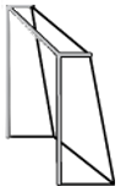
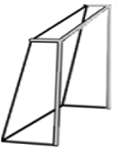
Goal & Movement Changes

diff --git a/core/src/com/feup/superslimefootball/view/GameView.java b/core/src/com/feup/superslimefootball/view/GameView.java
@@ -12,6 +12,7 @@ import com.feup.superslimefootball.SuperSlimeFootball;
 import com.feup.superslimefootball.controller.GameController;
 import com.feup.superslimefootball.model.GameModel;
 import com.feup.superslimefootball.model.entities.BallModel;
+import com.feup.superslimefootball.model.entities.GoalModel;
 import com.feup.superslimefootball.model.entities.SlimeModel;
 import com.feup.superslimefootball.view.entities.EntityView;
 import com.feup.superslimefootball.view.entities.ViewFactory;
@@ -95,6 +96,7 @@ public class GameView extends ScreenAdapter {
         this.game.getAssetManager().load( "background.png" , Texture.class);
         this.game.getAssetManager().load( "blueSlime.png" , Texture.class);
         this.game.getAssetManager().load( "ball.png", Texture.class);
+        this.game.getAssetManager().load( "goal.png", Texture.class);
 
         this.game.getAssetManager().finishLoading();
     }
@@ -110,7 +112,7 @@ public class GameView extends ScreenAdapter {
 
         this.game.getBatch().setProjectionMatrix(camera.combined);
 
-        handleInputs(delta);
+        handleInputs();
 
         GameController.getInstance().update(delta);
 
@@ -126,32 +128,31 @@ public class GameView extends ScreenAdapter {
     /**
      * Handles any inputs and passes them to the controller.
      *
-     * @param delta time since last time inputs where handled in seconds
      */
-    private void handleInputs(float delta) {
+    private void handleInputs() {
         if (Gdx.input.isKeyPressed(Input.Keys.LEFT)) {
-            GameController.getInstance().moveLeft(delta);
+            GameController.getInstance().moveLeft();
         }
         if (Gdx.input.isKeyPressed(Input.Keys.RIGHT)) {
-            GameController.getInstance().moveRight(delta);
+            GameController.getInstance().moveRight();
         }
         if (Gdx.input.isKeyPressed(Input.Keys.UP)) {
-            GameController.getInstance().jump(delta);
+            GameController.getInstance().jump();
         }
         if (Gdx.input.isKeyPressed(Input.Keys.SPACE)) {
             //GameController.getInstance().shoot();
         }
         if (Gdx.input.getAccelerometerY() > 0) {
             System.out.println(Gdx.input.getAccelerometerY());
-            GameController.getInstance().moveRight(delta * Gdx.input.getAccelerometerY());
+            GameController.getInstance().moveRight();
         }
         if (Gdx.input.getAccelerometerY() < 0) {
             System.out.println(Gdx.input.getAccelerometerY());
-            GameController.getInstance().moveLeft(delta * -Gdx.input.getAccelerometerY());
+            GameController.getInstance().moveLeft();
         }
         if (Gdx.input.isTouched()) {
             if (Gdx.input.getX() > Gdx.graphics.getWidth() / 2)
-                GameController.getInstance().jump(delta);
+                GameController.getInstance().jump();
             //else
                 //GameController.getInstance().shoot();
         }
@@ -171,15 +172,23 @@ public class GameView extends ScreenAdapter {
      * Draws the entities to the screen.
      */
     private void drawEntities() {
+
         SlimeModel slimeOne = GameModel.getInstance().getSlimeModel();
         EntityView slimeView = ViewFactory.makeView(game, slimeOne);
         slimeView.update(slimeOne);
         slimeView.draw(game.getBatch());
 
+        GoalModel leftGoal = GameModel.getInstance().getLeftGoalModel();
+        EntityView goalView = ViewFactory.makeView(game, leftGoal);
+        goalView.update(leftGoal);
+        goalView.draw(game.getBatch());
+
+
         BallModel ball = GameModel.getInstance().getBallModel();
         EntityView ballView = ViewFactory.makeView(game, ball);
         ballView.update(ball);
         ballView.draw(game.getBatch());
+
 
 
 

diff --git a/core/src/com/feup/superslimefootball/controller/GameController.java b/core/src/com/feup/superslimefootball/controller/GameController.java
@@ -9,6 +9,7 @@ import com.badlogic.gdx.physics.box2d.Manifold;
 import com.badlogic.gdx.physics.box2d.World;
 import com.badlogic.gdx.utils.Array;
 import com.feup.superslimefootball.controller.entities.BallBody;
+import com.feup.superslimefootball.controller.entities.GoalBody;
 import com.feup.superslimefootball.controller.entities.SlimeBody;
 import com.feup.superslimefootball.controller.entities.WallsBody;
 import com.feup.superslimefootball.model.GameModel;
@@ -60,7 +61,10 @@ public class GameController implements ContactListener {
      */
     private final BallBody ballBody;
 
-
+    /**
+     * The left Goal body.
+     */
+    private final GoalBody leftGoalBody;
 
     /**
      * Accumulator used to calculate the simulation step.
@@ -78,6 +82,7 @@ public class GameController implements ContactListener {
         wallsBody = new WallsBody(world, GameModel.getInstance().getWallsModel());
         slimeBody = new SlimeBody(world, GameModel.getInstance().getSlimeModel());
         ballBody = new BallBody(world, GameModel.getInstance().getBallModel());
+        leftGoalBody = new GoalBody(world, GameModel.getInstance().getLeftGoalModel());
 
         world.setContactListener(this);
     }
@@ -142,31 +147,29 @@ public class GameController implements ContactListener {
     /**
      * Moves the Slime to the right.
      *
-     * @param delta Duration of the movement in seconds.
+     *
      */
-    public void moveRight(float delta) {
-        slimeBody.applyLinearImpulse(10f * delta, 0, true);
+    public void moveRight() {
+        slimeBody.applyLinearImpulse(1f , 0, true);
         //slimeBody.applyForceToCenter(5f,0,true);
     }
 
     /**
      * Moves the Slime to the left.
      *
-     * @param delta Duration of the movement in seconds.
      */
-    public void moveLeft(float delta) {
-        slimeBody.applyLinearImpulse(-10f * delta, 0, true);
+    public void moveLeft() {
+        slimeBody.applyLinearImpulse(-1f , 0, true);
         //slimeBody.applyForceToCenter(-5f,0,true);
     }
 
     /**
      * Moves the Slime up.
      *
-     * @param delta Duration of the movement in seconds.
      */
-    public void jump(float delta) {
+    public void jump() {
         if(((SlimeModel)slimeBody.getUserData()).getCurrentState() != SlimeModel.State.JUMPING)
-            slimeBody.applyLinearImpulse(0, 1000f * delta, true);
+            slimeBody.applyLinearImpulse(0, 20f, true);
             //slimeBody.applyForceToCenter(0,300f,true);
     }
 

diff --git a/core/src/com/feup/superslimefootball/model/GameModel.java b/core/src/com/feup/superslimefootball/model/GameModel.java
@@ -6,6 +6,7 @@ package com.feup.superslimefootball.model;
 
 import com.feup.superslimefootball.controller.GameController;
 import com.feup.superslimefootball.model.entities.BallModel;
+import com.feup.superslimefootball.model.entities.GoalModel;
 import com.feup.superslimefootball.model.entities.SlimeModel;
 import com.feup.superslimefootball.model.entities.WallsModel;
 
@@ -40,6 +41,18 @@ public class GameModel {
     private BallModel ballModel;
 
 
+    /**
+     * The Left Goal in this game.
+     */
+
+    private GoalModel leftGoalModel;
+
+
+    /**
+     * The Rigth Goal in this game.
+     */
+
+    private GoalModel rigthGoalModel;
 
     /**
      * Constructs a game with....
@@ -49,6 +62,7 @@ public class GameModel {
         wallsModel = new WallsModel(0,0);
         slimeModel = new SlimeModel(GameController.GAME_WIDTH * (1.0f/5.0f) , GameController.GAME_HEIGHT * (4.0f/5.0f));
         ballModel = new BallModel(GameController.GAME_WIDTH / 2.0f, GameController.GAME_HEIGHT * (4.0f/5.0f));
+        leftGoalModel = new GoalModel(GameController.GAME_WIDTH * (1.0f/13.0f) , GameController.GAME_HEIGHT * (1.0f/6.0f));
 
    }
 
@@ -96,6 +110,17 @@ public class GameModel {
 
     public WallsModel getWallsModel() {
         return wallsModel;
+    }
+
+
+    /**
+     * Returns the left Goal.
+     *
+     * @return the left Goal.
+     */
+
+    public GoalModel getLeftGoalModel() {
+        return leftGoalModel;
     }
 }
 

diff --git a/core/src/com/feup/superslimefootball/controller/entities/GoalBody.java b/core/src/com/feup/superslimefootball/controller/entities/GoalBody.java
@@ -1,0 +1,44 @@
+package com.feup.superslimefootball.controller.entities;
+
+import com.badlogic.gdx.math.Vector2;
+import com.badlogic.gdx.physics.box2d.World;
+import com.feup.superslimefootball.model.entities.EntityModel;
+
+/**
+ * Created by afonso on 5/29/17.
+ */
+
+public class GoalBody extends EntityBody {
+    /**
+     * Constructs a body representing a model in a certain world.
+     *
+     * @param world     The world this body lives on.
+     * @param model     The model representing the body.
+     */
+    public GoalBody(World world, EntityModel model) {
+        super(world, model, false);
+
+
+        float density = 1.0f;
+        float restitution = 0.0f;
+        float friction = 1.0f;
+
+        Vector2[] vertexes = new Vector2[4];
+//
+//        vertexes[0] = new Vector2(-0.2f, -2.2f);
+//        vertexes[1] = new Vector2(-0.0f, -2.2f);
+//        vertexes[2] = new Vector2(-0.0f, 1.1f);
+//        vertexes[3] = new Vector2(0.1f, 1.1f);
+//
+//
+//        createFixture(body,vertexes, density, friction, restitution);
+
+        vertexes[0] = new Vector2(-0.9f, 1.1f);
+        vertexes[1] = new Vector2(0.0f, 1.1f);
+        vertexes[2] = new Vector2(0.8f, 2.2f);
+        vertexes[3] = new Vector2(1.5f, 2.2f);
+
+        createFixture(body,vertexes, density, friction, restitution);
+
+    }
+}

diff --git a/core/src/com/feup/superslimefootball/controller/entities/SlimeBody.java b/core/src/com/feup/superslimefootball/controller/entities/SlimeBody.java
@@ -25,8 +25,8 @@ public class SlimeBody extends EntityBody {
         Vector2[] vertexes = new Vector2[8];
 
         vertexes[0] = new Vector2(-1.2f, -0.7f);
-        vertexes[1] = new Vector2(0f, -0.7f);
-        vertexes[2] = new Vector2(0f, 0.7f);
+        vertexes[1] = new Vector2(0.1f, -0.7f);
+        vertexes[2] = new Vector2(0.1f, 0.7f);
         vertexes[3] = new Vector2(-0.4f, 0.6f);
         vertexes[4] = new Vector2(-0.9f, 0.4f);
         vertexes[5] = new Vector2(-1.0f, 0.0f);
@@ -36,8 +36,8 @@ public class SlimeBody extends EntityBody {
         createFixture(body,vertexes, density, friction, restitution);
 
         vertexes[0] = new Vector2(1.3f, -0.7f);
-        vertexes[1] = new Vector2(0f, -0.7f);
-        vertexes[2] = new Vector2(0f, 0.7f);
+        vertexes[1] = new Vector2(-0.1f, -0.7f);
+        vertexes[2] = new Vector2(-0.1f, 0.7f);
         vertexes[3] = new Vector2(0.6f, 0.6f);
         vertexes[4] = new Vector2(1.0f, 0.3f);
         vertexes[5] = new Vector2(1.1f, 0.0f);

diff --git a/core/src/com/feup/superslimefootball/view/entities/GoalView.java b/core/src/com/feup/superslimefootball/view/entities/GoalView.java
@@ -1,0 +1,29 @@
+package com.feup.superslimefootball.view.entities;
+
+import com.badlogic.gdx.graphics.Texture;
+import com.badlogic.gdx.graphics.g2d.Sprite;
+import com.feup.superslimefootball.SuperSlimeFootball;
+
+/**
+ * Created by afonso on 5/29/17.
+ */
+
+public class GoalView extends EntityView {
+    /**
+     * Creates a view belonging to a game.
+     *
+     * @param game the game this view belongs to. Needed to access the
+     *             asset manager to get textures.
+     */
+    GoalView(SuperSlimeFootball game) {
+        super(game);
+    }
+
+    @Override
+    public Sprite createSprite(SuperSlimeFootball game) {
+
+        Texture texture = game.getAssetManager().get("goal.png");
+
+        return new Sprite(texture, texture.getWidth(), texture.getHeight());
+    }
+}

diff --git a/core/src/com/feup/superslimefootball/view/entities/ViewFactory.java b/core/src/com/feup/superslimefootball/view/entities/ViewFactory.java
@@ -7,6 +7,7 @@ import java.util.HashMap;
 import java.util.Map;
 
 import static com.feup.superslimefootball.model.entities.EntityModel.ModelType.BALL;
+import static com.feup.superslimefootball.model.entities.EntityModel.ModelType.GOAL;
 import static com.feup.superslimefootball.model.entities.EntityModel.ModelType.SLIME;
 
 /**
@@ -24,6 +25,8 @@ public class ViewFactory {
                 cache.put(model.getType(), new SlimeView(game));
             if (model.getType() == BALL)
                 cache.put(model.getType(), new BallView(game));
+            if (model.getType() == GOAL)
+                cache.put(model.getType(), new GoalView(game));
         }
         return cache.get(model.getType());
     }

diff --git a/core/src/com/feup/superslimefootball/model/entities/GoalModel.java b/core/src/com/feup/superslimefootball/model/entities/GoalModel.java
@@ -1,0 +1,22 @@
+package com.feup.superslimefootball.model.entities;
+
+/**
+ * Created by afonso on 5/29/17.
+ */
+
+public class GoalModel extends EntityModel {
+    /**
+     * Constructs a model with a position and a rotation.
+     *
+     * @param x The x-coordinate of this entity in pixels.
+     * @param y The y-coordinate of this entity in pixels.
+     */
+    public GoalModel(float x, float y) {
+        super(x, y);
+    }
+
+    @Override
+    public ModelType getType() {
+        return ModelType.GOAL;
+    }
+}

diff --git a/core/src/com/feup/superslimefootball/controller/entities/BallBody.java b/core/src/com/feup/superslimefootball/controller/entities/BallBody.java
@@ -17,7 +17,7 @@ public class BallBody extends EntityBody {
     public BallBody(World world, EntityModel model) {
         super(world, model, true);
 
-        float density = 0.5f;
+        float density = 0.9f;
         float restitution = 0.7f;
 
         createCircleFixture(body, 13, density, restitution);

diff --git a/core/src/com/feup/superslimefootball/model/entities/EntityModel.java b/core/src/com/feup/superslimefootball/model/entities/EntityModel.java
@@ -6,7 +6,7 @@ package com.feup.superslimefootball.model.entities;
 
 public abstract class EntityModel {
 
-    public enum ModelType {SLIME, BALL}
+    public enum ModelType {SLIME, BALL, GOAL}
 
     ;
 
